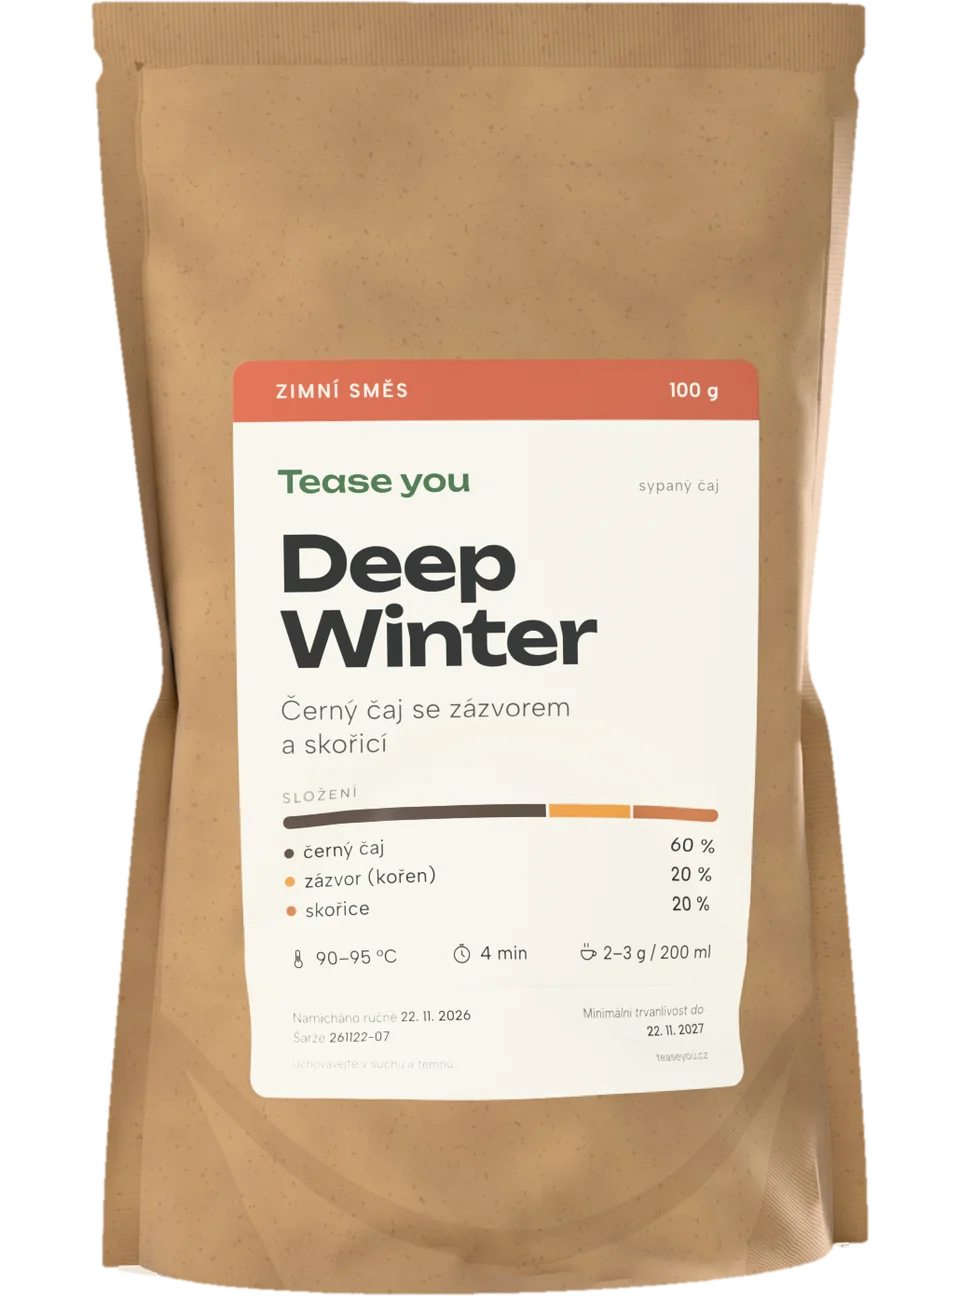
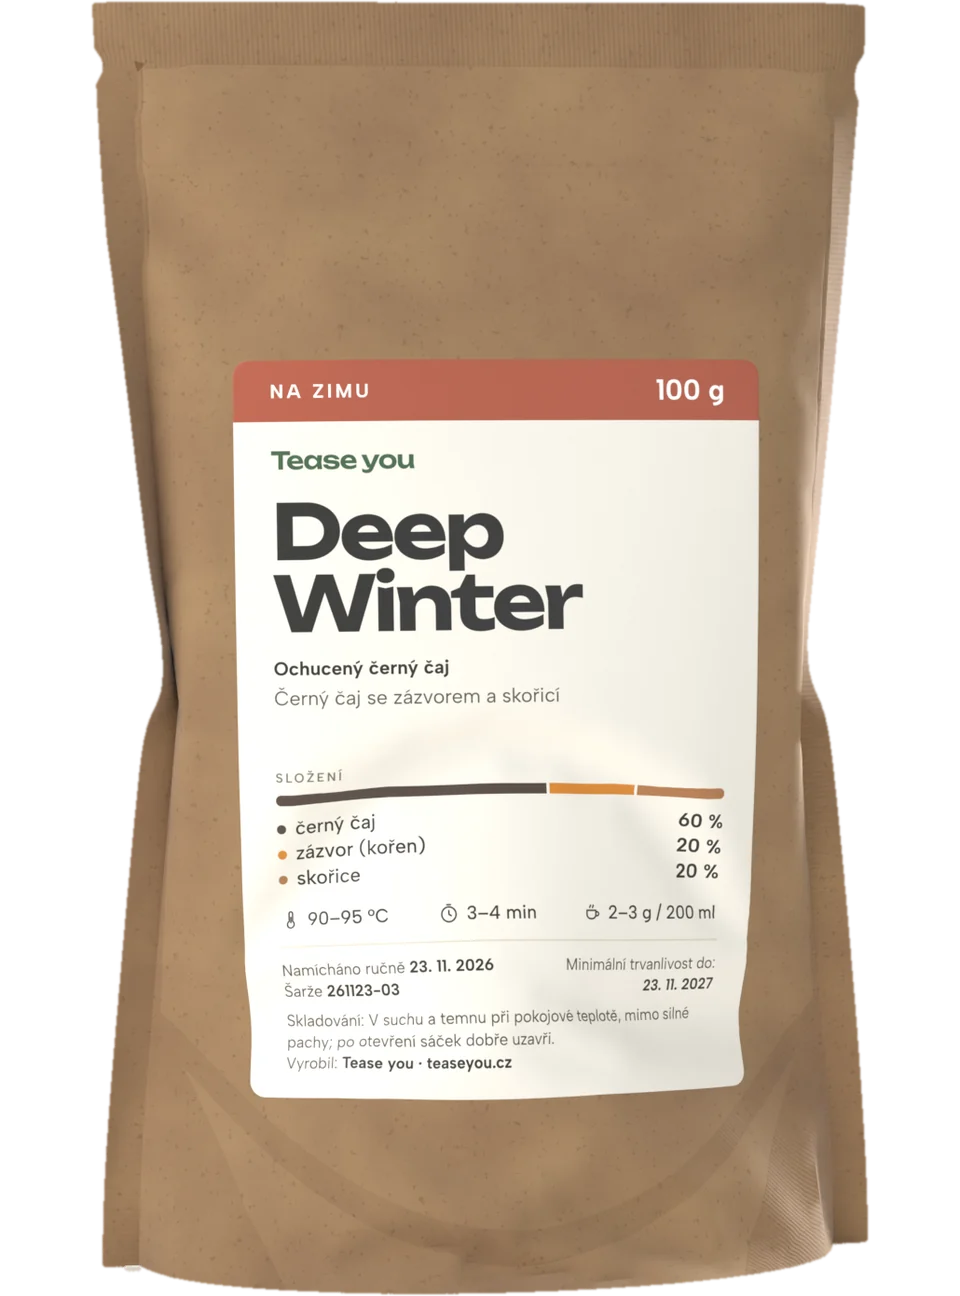
Rendery prvních šesti hotových směsí, deník a changelog
Rozpracované: zbylé rendery se dodělávají v Blenderu.

Claude-Session: https://claude.ai/code/session_015SNt3xtFVyHTVD4atTPgZv

diff --git a/script.js b/script.js
@@ -4347,7 +4347,20 @@ const LAYER_LABELS = ['glass_label_base', 'glass_label_flavor', 'glass_label_ext
    má vždy kreslený sáček, protože jméno a složení vymýšlí zákazník a etiketa
    se musí měnit živě. Soubory: <cesta>-480.webp a <cesta>-960.webp. */
 const POUCH_RENDERS = {
-    deep_winter: 'img/sacky/deep-winter',
+    morning_window: 'img/sacky/morning-window',
+    still_evening:  'img/sacky/still-evening',
+    deep_winter:    'img/sacky/deep-winter',
+    late_light:     'img/sacky/late-light',
+    open_air:       'img/sacky/open-air',
+    slow_tuesday:   'img/sacky/slow-tuesday',
+    sunday_paper:   'img/sacky/sunday-paper',
+    desk_hours:     'img/sacky/desk-hours',
+    garden_party:   'img/sacky/garden-party',
+    pink_hour:      'img/sacky/pink-hour',
+    after_dinner:   'img/sacky/after-dinner',
+    quiet_street:   'img/sacky/quiet-street',
+    snowed_in:      'img/sacky/snowed-in',
+    mint_condition: 'img/sacky/mint-condition',
 };
 function pouchRenderFor(b) { return (b && POUCH_RENDERS[b.id]) || ''; }
 /* Jak široký je sáček na stránce, aby si prohlížeč vybral správnou velikost. */

diff --git a/sw.js b/sw.js
@@ -8,7 +8,7 @@
  * Když měníš seznam PRECACHE, zvyš VERSION — jinak se stará cache nezahodí.
  */
 
-const VERSION = 'v18';
+const VERSION = 'v19';
 const CACHE = `teaseyou-${VERSION}`;
 
 // Minimum, aby se web offline vůbec vykreslil.

diff --git a/docs/pravni-kontrola.md b/docs/pravni-kontrola.md
@@ -6,7 +6,7 @@ přečti a porovnej s kódem. Co nesedí, oprav ve stejném PR.
 Podrobný checklist po bodech je v [`PRAVNI-KONTROLA.md`](../PRAVNI-KONTROLA.md).
 Tohle není právní rada. Podmínky a zásady má před spuštěním prodeje projít advokát.
 
-- **Naposledy zkontrolováno:** 22. 11. 2026 (celý web na `main`, commit 8a26619)
+- **Naposledy zkontrolováno:** 23. 11. 2026 (větev `rendery-sacku`: rendery všech hotových směsí a etikety)
 
 ## Trh a rozhodné právo
 
@@ -75,10 +75,19 @@ administrace. Žádosti o přístup a výmaz řeší záložka *Osobní údaje* 
   prodáváme jen vlastní zboží.
 - **Tvrzení o čajích:** prodáváme podle chuti a chvíle dne, ne podle účinků
   na zdraví (nařízení (ES) č. 1924/2006, čl. 10).
-- **Obrázky produktů:** rendery sáčků z Blenderu (`img/sacky/`) jsou ilustrační
-  a detail to u nich píše. Musí odpovídat skutečnému sáčku a etiketě (§ 5
-  zákona o ochraně spotřebitele). Etiketa na renderu se generuje ze stejných
-  dat jako informace o potravině na webu.
+- **Obrázky produktů:** rendery sáčků z Blenderu (`img/sacky/`, všech 14
+  hotových směsí) jsou ilustrační a detail to u nich píše. Musí odpovídat
+  skutečnému sáčku a etiketě (§ 5 zákona o ochraně spotřebitele). Datum,
+  šarže a trvanlivost na renderu jsou ukázkové.
+- **Etiketa sáčku:** texty generuje `tools/rendery/etikety.py` ze stejných dat
+  jako informace o potravině na webu (název podle vyhlášky 187/2023 Sb.,
+  složení s procenty, alergeny, příprava, trvanlivost, skladování,
+  provozovatel). Šablona `tools/rendery/etiketa.html` počítá s etiketou
+  88 × 120 mm na sáčku 100 g: malá písmena povinných údajů aspoň 1,2 mm
+  (nařízení (EU) č. 1169/2011, čl. 13 odst. 2 a příloha IV), číslice „100 g“
+  aspoň 3 mm (vyhláška č. 328/2000 Sb., příloha 1 bod 3.1.3), název
+  a hmotnost na stejné straně (čl. 13 odst. 5), šarže (směrnice 2011/91/EU).
+  Při jiné velikosti etikety velikosti písma znovu ověřit.
 
 ## Otevřené body a vědomě přijaté mezery
 
@@ -88,9 +97,14 @@ administrace. Žádosti o přístup a výmaz řeší záložka *Osobní údaje* 
   (anglicky „calming“, „soothing“, u medu „soothing“). Václav v listopadu
   2026 řekl zatím nic nemazat. Rozhodne.
 - 22. 11. 2026: v podmínkách chybí pravidla pro recenze podle DSA.
-- 23. 11. 2026: render Deep Winter je jen na zkoušku. Sáček ještě není vybraný
-  a etiketa na renderu nemá provozovatele ani název podle vyhlášky („Ochucený
-  černý čaj“). Před spuštěním prodeje opravit, nebo render nahradit fotkou.
+- 23. 11. 2026: sáček ještě není vybraný. Rendery ukazují model doypacku
+  s popiskem „Ilustrační vizualizace“. Až bude sáček vybraný, doladit model
+  nebo rendery nahradit fotkami.
+- 23. 11. 2026: na etiketě chybí jméno a adresa provozovatele (nařízení
+  (EU) č. 1169/2011, čl. 9 odst. 1 písm. h)), zatím jen „Tease you ·
+  teaseyou.cz“. Po vyplnění v administraci (Nastavení → Prodávající) znovu
+  spustit `etikety.py` a `blender_sacky.py`. Skutečné etikety bez adresy
+  tisknout nejde.
 - Před spuštěním prodeje (viz checklist): živnost, oznámení SZPI, HACCP
   a šarže, údaje prodávajícího, kontrola advokátem, slovenské překlady
   právních stránek, EKO-KOM, u kosmetiky posudek bezpečnosti a CPNP.

diff --git a/CHANGELOG.md b/CHANGELOG.md
@@ -6,6 +6,25 @@ takže se řadí podle data.
 
 ## Nezveřejněno
 
+### Rendery všech hotových směsí a etikety (23. 11. 2026)
+- **Všech 14 hotových směsí** má místo kresleného sáčku render z Blenderu
+  s novou etiketou. Deep Winter je vyrenderovaný znovu, aby vypadal stejně
+  jako ostatní.
+- **Etiketa hotové směsi:** pruh v barvě chvíle („Na zimu“, 100 g), jméno,
+  název podle vyhlášky 187/2023 Sb. („Ochucený černý čaj“), popis, složení
+  s procenty, příprava, datum míchání, šarže, minimální trvanlivost,
+  skladování a kdo směs vyrobil.
+- **Etiketa vlastní směsi:** krémová kartička jako recept s razítkem
+  „Namícháno pro tebe“. Jméno je psané písmem Caveat (licence OFL). Na webu
+  se zatím neukazuje, vlastní směs má dál kreslený sáček.
+- Texty etiket generuje `tools/rendery/etikety.py` ze stejných dat jako
+  informace o potravině na webu. Šablona je `tools/rendery/etiketa.html`,
+  rendery dělá `tools/rendery/blender_sacky.py`.
+- **Zázvor a skořice** mají v kolečku místo ikonky výřez z renderu.
+- Dokud v administraci nejsou jméno a adresa prodávajícího, je na etiketě
+  jen „Tease you · teaseyou.cz“. Po vyplnění se etikety i rendery
+  přegenerují.
+
 ### První render sáčku (23. 11. 2026)
 - **Deep Winter** má místo kresleného sáčku render z Blenderu, vyříznutý na
   průhledné pozadí. Ukáže se na úvodu, na kartě, v detailu, v kvízu i na

diff --git a/PRAVNI-KONTROLA.md b/PRAVNI-KONTROLA.md
@@ -87,7 +87,7 @@ Značky: ✅ hotovo · ⏳ zbývá udělat · ➖ netýká se nás (s důvodem)
 
 | # | Bod | Stav | Podle čeho v ČR | Co je na webu / co zbývá |
 |---|---|---|---|---|
-| 33 | Licence obrázků, písem a kódu | ✅ | autorský zákon č. 121/2000 Sb. | Písma Unbounded a Albert Sans (OFL 1.1, `fonts/OFL.txt`), část ikon z Feather Icons (MIT), vše v `THIRD-PARTY-LICENSES.txt` a odkazem v patičce. Ilustrace jsou vlastní. |
+| 33 | Licence obrázků, písem a kódu | ✅ | autorský zákon č. 121/2000 Sb. | Písma Unbounded a Albert Sans (OFL 1.1, `fonts/OFL.txt`), na etiketách vlastních směsí Caveat (OFL 1.1, `tools/rendery/pisma/OFL.txt`), část ikon z Feather Icons (MIT), vše v `THIRD-PARTY-LICENSES.txt` a odkazem v patičce. Ilustrace a rendery sáčků a surovin jsou vlastní. |
 | 34 | Open-source licence | ✅ | – | Web nemá žádné knihovny, jen vlastní kód. Mapa Zásilkovny se načítá z jejich serveru podle jejich podmínek. |
 | 35 | Registrace agenta DMCA | ➖ ⏳ | americký zákon; v EU nařízení 2022/2065 (DSA) | DMCA se nás netýká. Recenze ale píšou zákazníci, takže pro ně jsme nejspíš hostingová služba podle DSA (čl. 11, 12, 14, 16 a 17 platí i pro mikropodniky). ⏳ Do podmínek doplnit pravidla pro recenze, jak nahlásit nezákonnou recenzi a kontaktní místo. Autorovi odmítnuté recenze napsat proč. |
 
